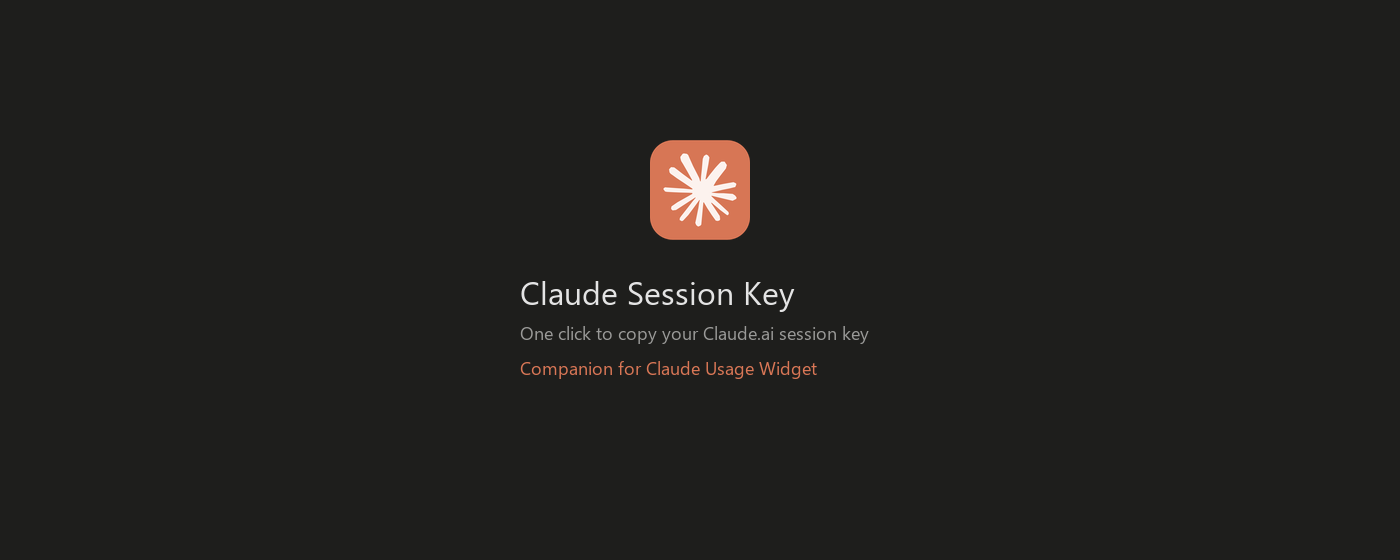
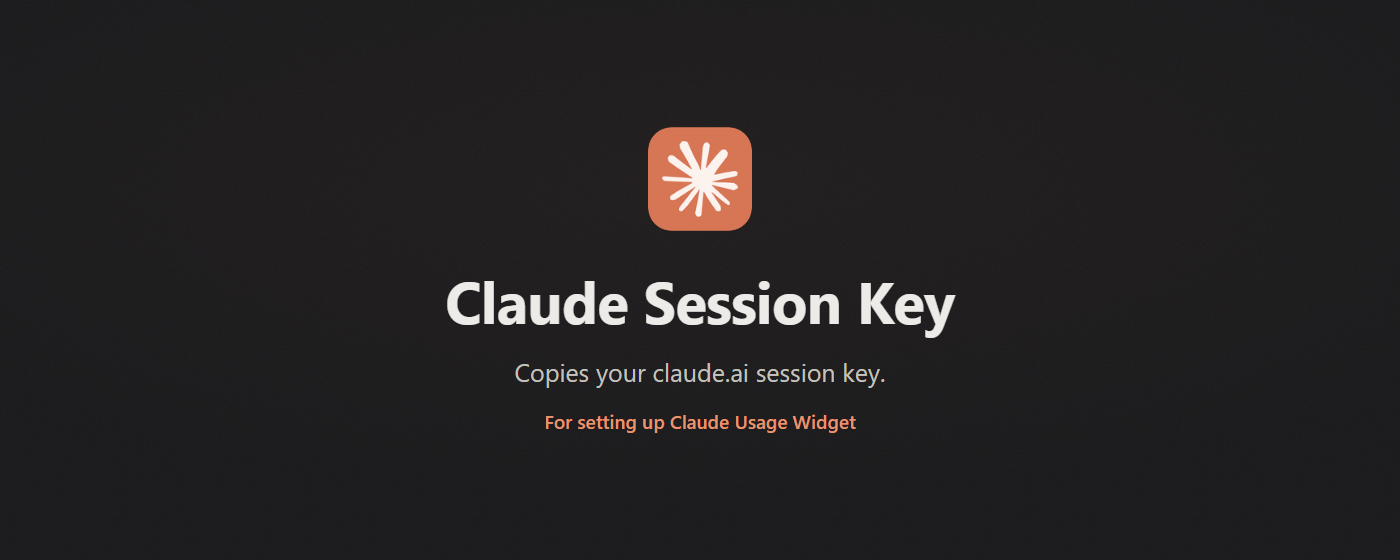
docs(store): real pictures of the side panel, and tiles to match
The listing carried a drawing of the popup made in April, which no longer
looked like the product: the panel is what the toolbar icon opens on Chrome
now, and the popup itself was restyled.

The screenshots are photographs of a real browser window. They are taken in a
throwaway Chrome profile with the extension loaded from its folder and an
INVENTED sessionKey cookie written into it, so no real key is ever on screen
and nothing has to be painted over afterwards. An earlier attempt photographed
a signed-in browser and retouched the key out; the retouch missed the last
line once, which is why that approach was abandoned.

Both promotional tiles are redrawn at their exact sizes, so nothing is scaled.
The ground carries a fine noise on purpose: the faint warm gradient behind it
has fewer than one step per ring at 8 bits a channel and photographs as
concentric bands without it.

README: the two lines that still described the extension as a popup.

diff --git a/README.md b/README.md
@@ -118,7 +118,7 @@ Switch back to essential mode the same way. Whichever mode you choose is remembe
 
 1. **Install** `ClaudeUsage-Setup.exe` and launch the widget.
 2. **Install the [Claude Session Key](https://chromewebstore.google.com/detail/claude-session-key/ppofmhjkjfinjpidlidepeonimpjmadj) extension** (Chrome / Edge / Brave / any Chromium browser).
-3. Open Claude.ai, click the extension icon, click **Copy to Clipboard**.
+3. Open Claude.ai and click the extension icon, then **Copy to Clipboard**. On Chrome it opens in the side panel, so it stays put while you paste.
 4. Paste the key into the widget's setup dialog. Done.
 
 The widget connects to Claude.ai using the same browser session you are already logged into. No API key, no password, no OAuth.
@@ -172,7 +172,7 @@ The account page, behind **Manage**, and the avatar picker behind the circle:
 - Tokens last hours, not weeks. When one expires and there is no key to fall back on, the widget says to run `claude` once
 
 ### Authentication and setup
-- Companion **[Claude Session Key](https://chromewebstore.google.com/detail/claude-session-key/ppofmhjkjfinjpidlidepeonimpjmadj) extension** copies your session key with one click; works on Chrome, Edge, Brave and any Chromium browser
+- Companion **[Claude Session Key](https://chromewebstore.google.com/detail/claude-session-key/ppofmhjkjfinjpidlidepeonimpjmadj) extension** copies your session key with one click; it opens in **Chrome's side panel**, and as a popup on Brave and on any browser without one
 - Built-in setup guide with manual fallback (browser settings or DevTools) if you would rather not install the extension
 - **Multiple accounts**: save more than one Claude login and switch between them in a click; each keeps its own credentials, name, email and plan
 - **Two ways in**: a session key from the browser, or the Claude Code login already on the machine. Adding an account starts by choosing between them
